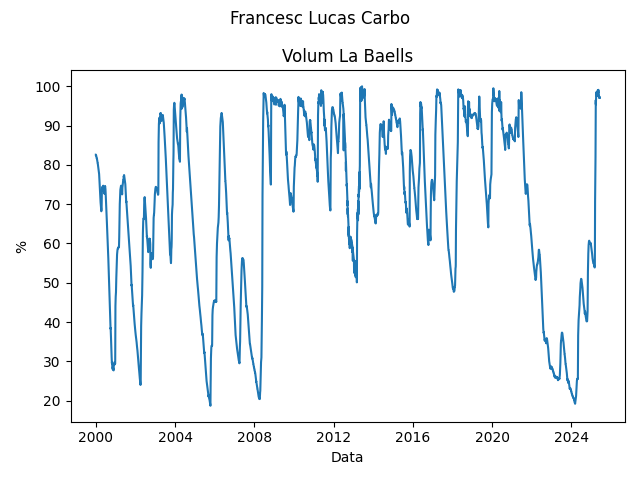
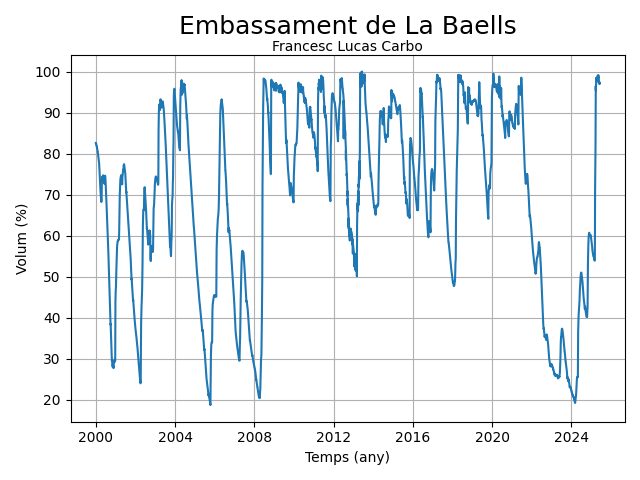
Millores

diff --git a/src/modules/exercise4.py b/src/modules/exercise4.py
@@ -21,12 +21,13 @@ def grafica_suavitzada(df: pd.DataFrame, suau: pd.Series, path: Path) -> None:
     fig, ax = plt.subplots()
     ax.plot(df['dia'], df['nivell_perc'], label='Original', alpha=0.5)
     ax.plot(df['dia'], suau, label='Suavitzat', linewidth=3)
-    ax.set_xlabel('Data')
-    ax.set_ylabel('%')
-    ax.set_title('Volum La Baells', fontsize=18, pad=15)
-    ax.text(0.5, 0.93, ALUMNE, transform=ax.transAxes,
-            ha='center', va='top', fontsize=12)
+    ax.set_xlabel('Temps (any)')
+    ax.set_ylabel('Volum (%)')
+    ax.set_title('Embassament de La Baells', fontsize=18, pad=15)
+    ax.text(0.5, 1.04, ALUMNE, transform=ax.transAxes,
+            ha='center', va='top', fontsize=10)
     ax.legend()
+    ax.grid()
     fig.tight_layout()
     path.parent.mkdir(parents=True, exist_ok=True)
     fig.savefig(path)

diff --git a/src/modules/exercise3.py b/src/modules/exercise3.py
@@ -42,11 +42,12 @@ def grafica_volum(df: pd.DataFrame, path: Path) -> None:
     """Genera la gràfica del volum/percentatge al llarg del temps."""
     fig, ax = plt.subplots()
     ax.plot(df['dia'], df['nivell_perc'])
-    ax.set_xlabel('Data')
-    ax.set_ylabel('%')
-    ax.set_title('Volum La Baells', fontsize=18, pad=15)
-    ax.text(0.5, 0.93, ALUMNE, transform=ax.transAxes,
-            ha='center', va='top', fontsize=12)
+    ax.set_xlabel('Temps (any)')
+    ax.set_ylabel('Volum (%)')
+    ax.set_title('Embassament de La Baells', fontsize=18, pad=15)
+    ax.text(0.5, 1.04, ALUMNE, transform=ax.transAxes,
+            ha='center', va='top', fontsize=10)
+    ax.grid()
     fig.tight_layout()
     path.parent.mkdir(parents=True, exist_ok=True)
     fig.savefig(path)
